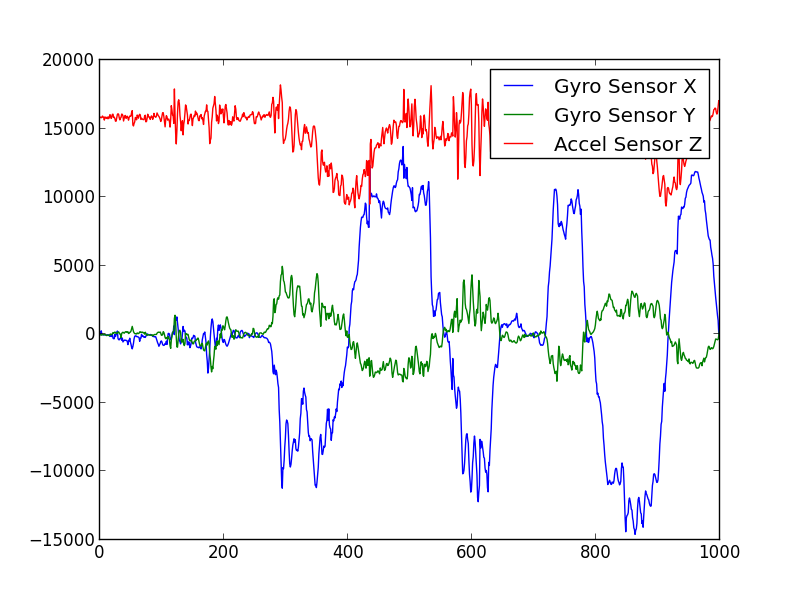
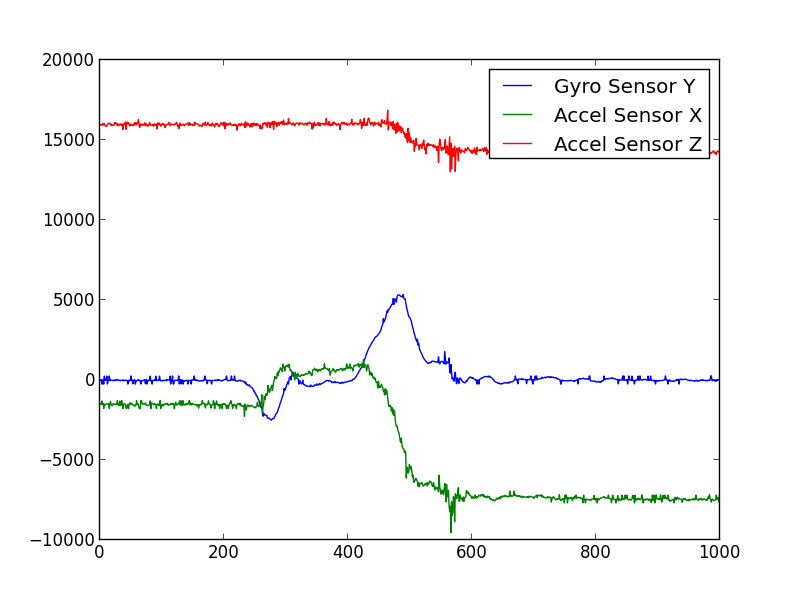
Backup in 2016/11/3 restore kernel with Raspi3

diff --git a/main.py b/main.py
@@ -31,27 +31,27 @@ if DEBUGON:
 # Keep scanning (Debugging)
 #MemAccel = []
 for i in range( SCANNING_TIMES ):
-	Asensor = sensor.getAccel()
-	Gsensor = sensor.getGyro()
+    Asensor = sensor.getAccel() # tuple:[x,y,z]
+    Gsensor = sensor.getGyro() # tuple:[x,y,z]
 #	if Asensor-MemAccel > THRESHOLD:
 #		MemAccel = Asensor
 #		Asensor = sensor.getAccel()
 #		if MemAccel-Asensor <= THRESHOLD:
 #			ASenPlot.append(
-			
-	if DEBUGON:
+
+    if DEBUGON:
 		ASenPlotx.append(Asensor[0])
 		ASenPloty.append(Asensor[1])
 		ASenPlotz.append(Asensor[2])
 		GSenPlotx.append(Gsensor[0])
 		GSenPloty.append(Gsensor[1])
 		GSenPlotz.append(Gsensor[2])
-	print "Accel: x: %5.f, y: %5.f, z: %5.f \t Gyro:  x: %5.f, y: %5.f, z: %5.f" %(Asensor[0], Asensor[1], Asensor[2], Gsensor[0], Gsensor[1], Gsensor[2])
-	
-	if Gsensor[0] < 0:
-		dac_left.setVoltage(int(Gsensor[0] * 4095 * (-1) / 32768))
-	else:
-		dac_left.setVoltage(Gsensor[0] * 4095 / 32768 )
+    print "Accel: x: %5.f, y: %5.f, z: %5.f \t Gyro:  x: %5.f, y: %5.f, z: %5.f" %(Asensor[0], Asensor[1], Asensor[2], Gsensor[0], Gsensor[1], Gsensor[2])
+
+    if Gsensor[1] < 0:
+		dac_left.setVoltage(int(Gsensor[1] * 4095 * (-1) / 32768))
+    else:
+		dac_left.setVoltage(Gsensor[1] * 4095 / 32768 )
 #	sleep(0.001)
 
 # print the plot (debug)
@@ -69,8 +69,11 @@ if DEBUGON:
 	#legend()
 
 	subplot(1,1,1)
-	plot (GSenPlotx, label = "Gyro Sensor X")
+	#plot (GSenPlotx, label = "Gyro Sensor X")
 	plot (GSenPloty, label = "Gyro Sensor Y")
+	#plot (GSenPlotz, label = "Gyro Sensor Z")
+	plot (ASenPlotx, label = "Accel Sensor X")
+	#plot (ASenPloty, label = "Accel Sensor Y")
 	plot (ASenPlotz, label = "Accel Sensor Z")
 	legend()
 

diff --git a/motorStop.py b/motorStop.py
@@ -1,9 +1,13 @@
 import mcp4725
 
-dac_left  = mcp4725.MCP4725(mcp4725.ADDRESS1)
-dac_right = mcp4725.MCP4725(mcp4725.ADDRESS2)
+dac_left  = mcp4725.MCP4725(mcp4725.ADDRESS1)# only work w/ rotation direction
+dac_right = mcp4725.MCP4725(mcp4725.ADDRESS2)# work w/ all func
 
-print dac_left.setVoltage(0)
+print 'dac_left.setVoltage(0)'
+dac_left.setVoltage(2)
+print 'dac_left.counterclockwise()'
 dac_left.counterclockwise()
-print dac_right.setVoltage(0)
-dac_right.counterclockwise()
+print 'dac_right.setVoltage(0)'
+dac_right.setVoltage(2)
+print 'dac_right.clockwise()'
+dac_right.clockwise()

diff --git a/mcp4725.py b/mcp4725.py
@@ -5,8 +5,8 @@ import RPi.GPIO as GPIO
 GPIO.setwarnings(False)
 GPIO.setmode(GPIO.BCM)
 
-ADDRESS1 = [0x62,4]
-ADDRESS2 = [0x63,14]
+ADDRESS1 = [0x62,4] # only work with rotation
+ADDRESS2 = [0x63,14] # work with all functions
 
 CMD_FAST = 0b00000000
 CMD_DAC = 0b01000000
